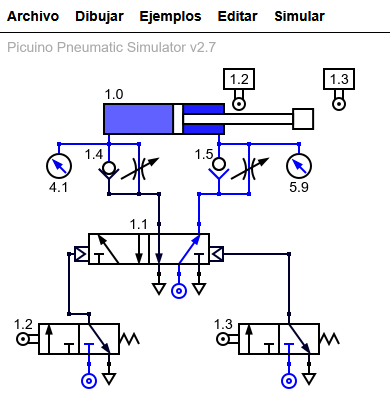
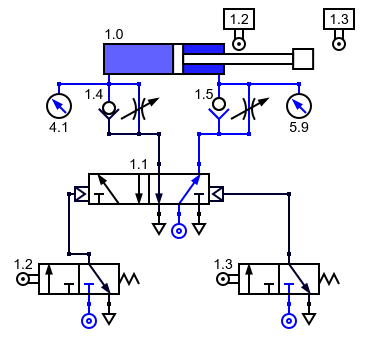
10/01/2026 Update

diff --git a/docs/index.html b/docs/index.html
@@ -49,7 +49,7 @@
   <div class="width-limit">
 
   <h1>Recursos educativos libres para Tecnología en Educación Secundaria.</h1>
-  <h1>Simuladores Online.</h1>
+  <h1>SIMULADORES ONLINE:</h1>
 
   <ul class="index-list">
 